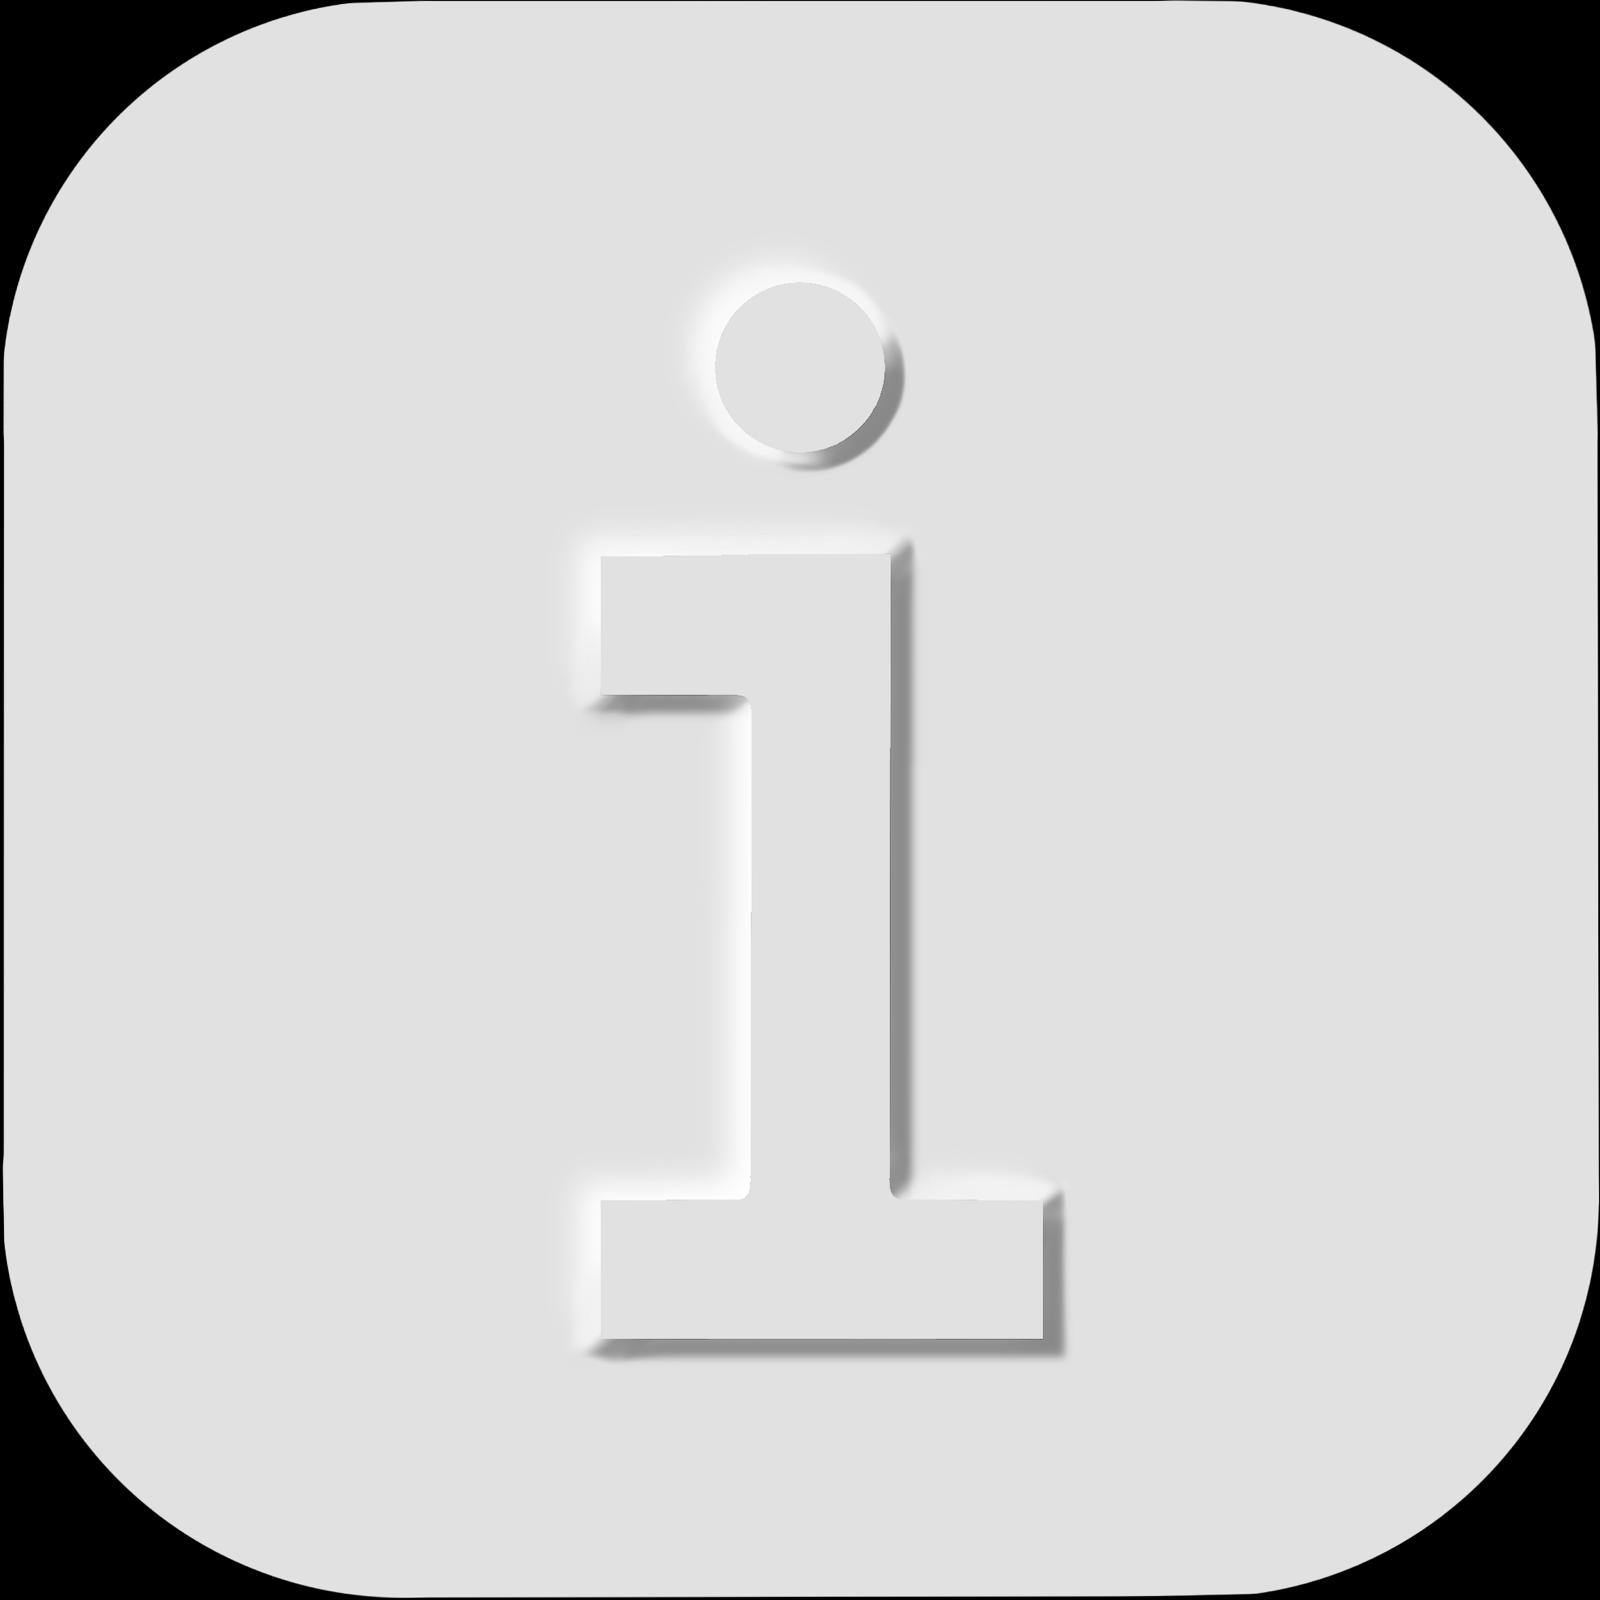
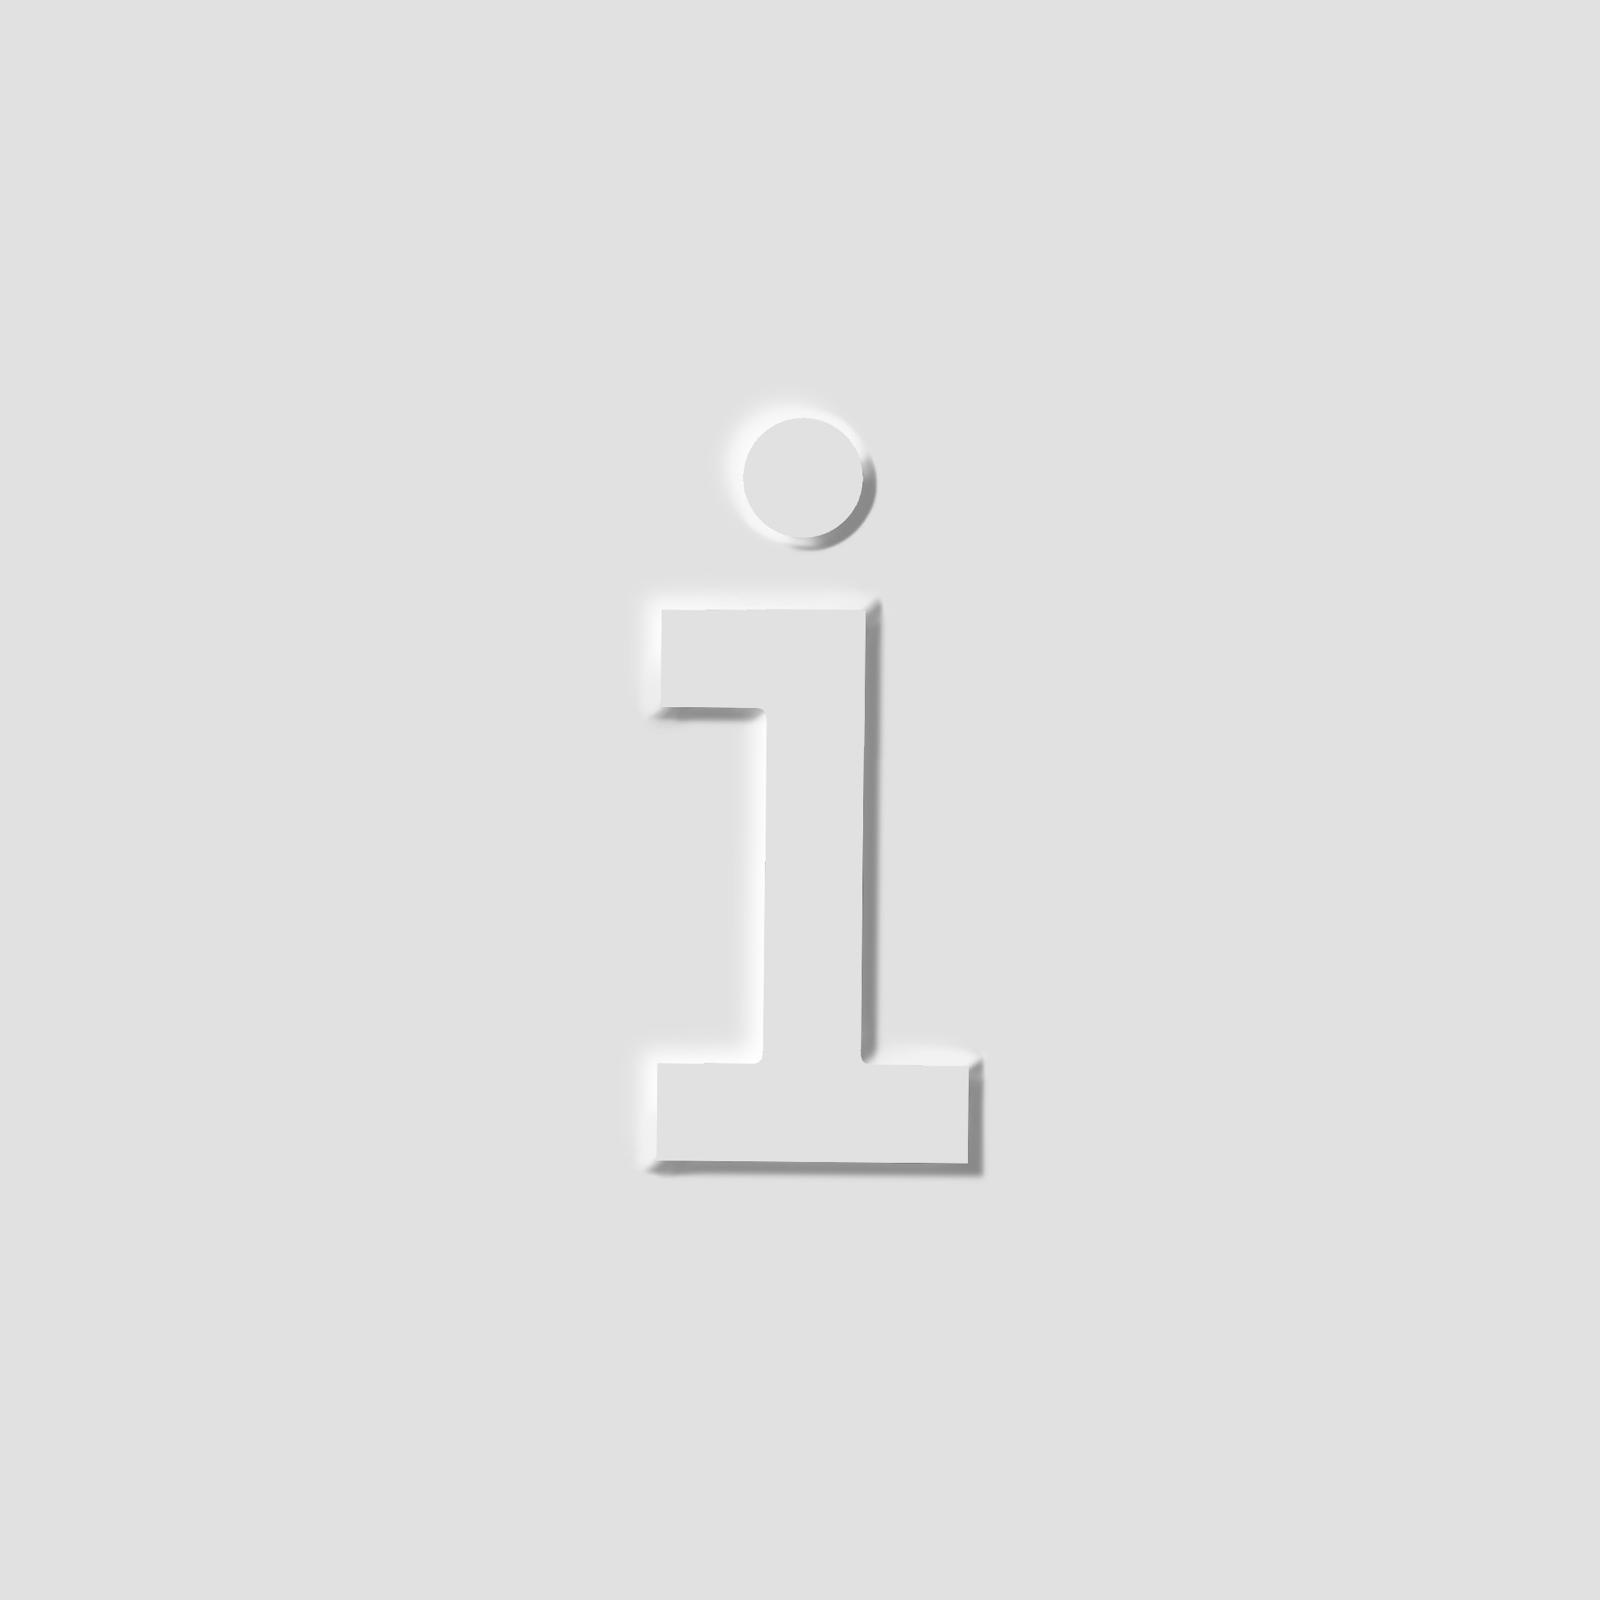
size adjustments
art1 image size adjusted and background color returned to dark blue

diff --git a/portfolio.css b/portfolio.css
@@ -1,7 +1,7 @@
 body {
     margin: 0;
     padding: 0;
-    background-color: #ffffff;
+    background-color: #022c5773;
     color: #ffffffcc;
     font-family: "IBM Plex Sans", sans-serif;
     overflow-x: hidden;

diff --git a/styles.css b/styles.css
@@ -79,7 +79,7 @@ h1 {
 
 
 h2 {
-    font-size: 18ch;
+    font-size: 12ch;
 }
 
 